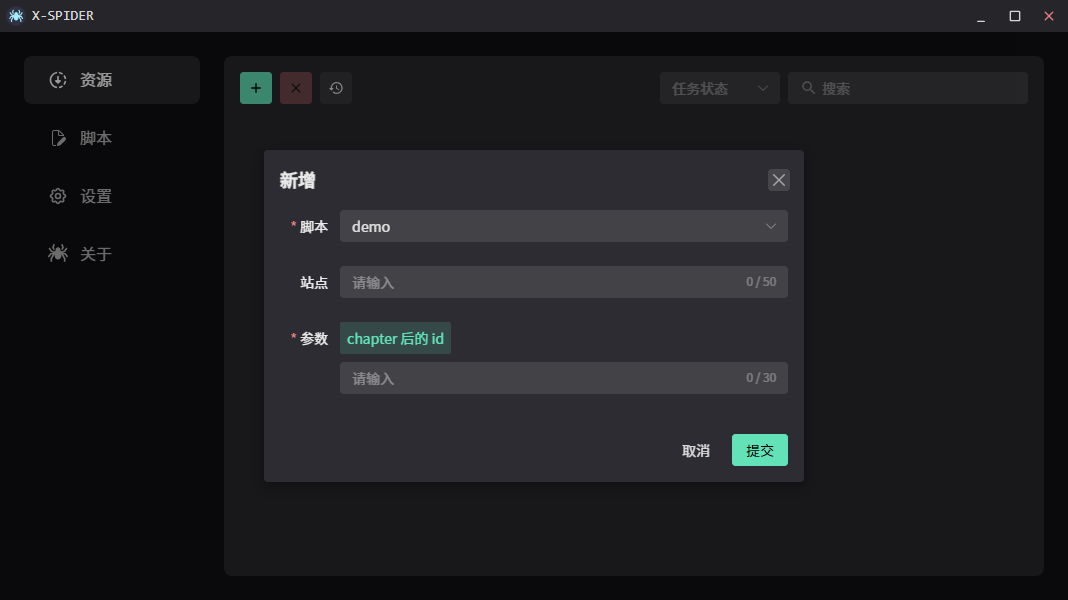
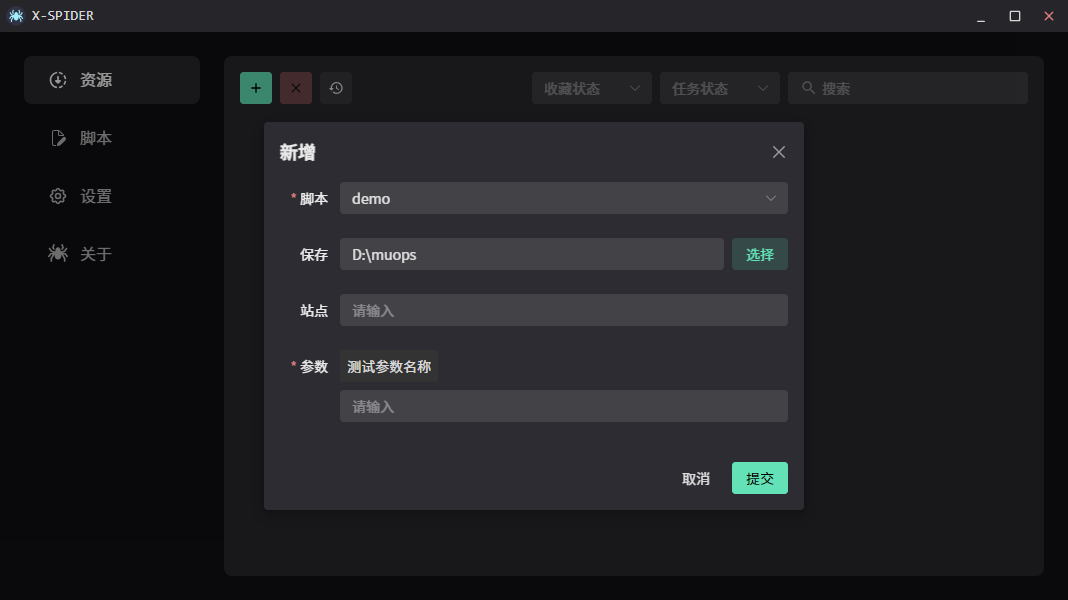
1.0.6

diff --git a/CHANGELOG.md b/CHANGELOG.md
@@ -1,5 +1,13 @@
 # 更新日志
 
+## 1.0.6丨2025-01-21
+♥ 增加脚本置顶功能  
+♥ 增加脚本参数必填配置  
+♥ 增加任务创建指定保存目录  
+🔧 移除系统内输入框长度限制  
+🔧 修复资源页任务标题无省略内容浮窗问题  
+🔧 修复下载后切换默认目录再启动后位置错误的问题  
+
 ## 1.0.5丨2025-01-16
 ♥ 增加全屏效果适配  
 ♥ 增加任务收藏过滤功能  
